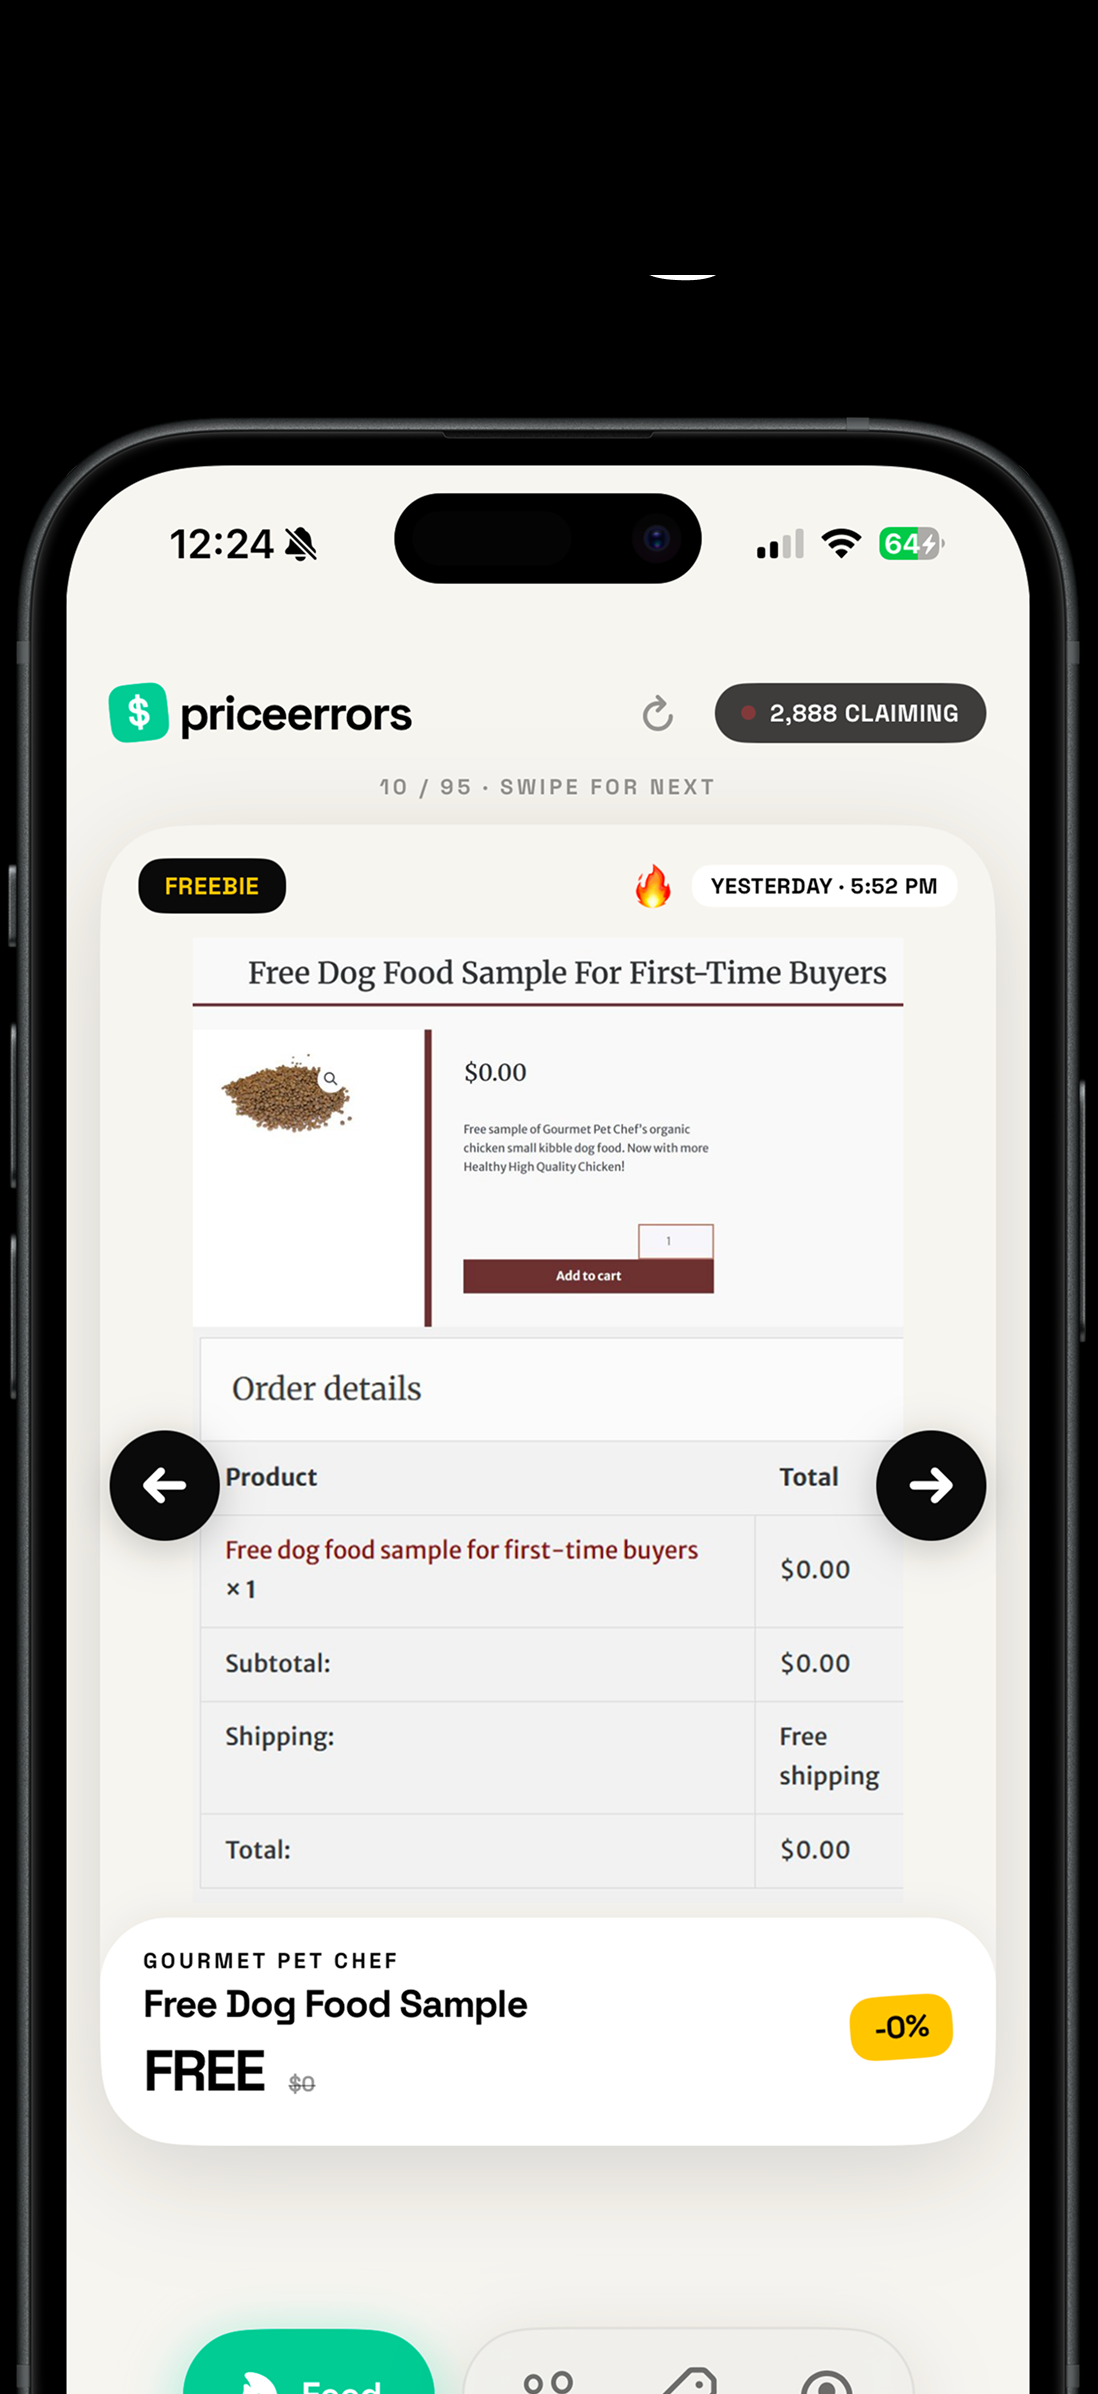
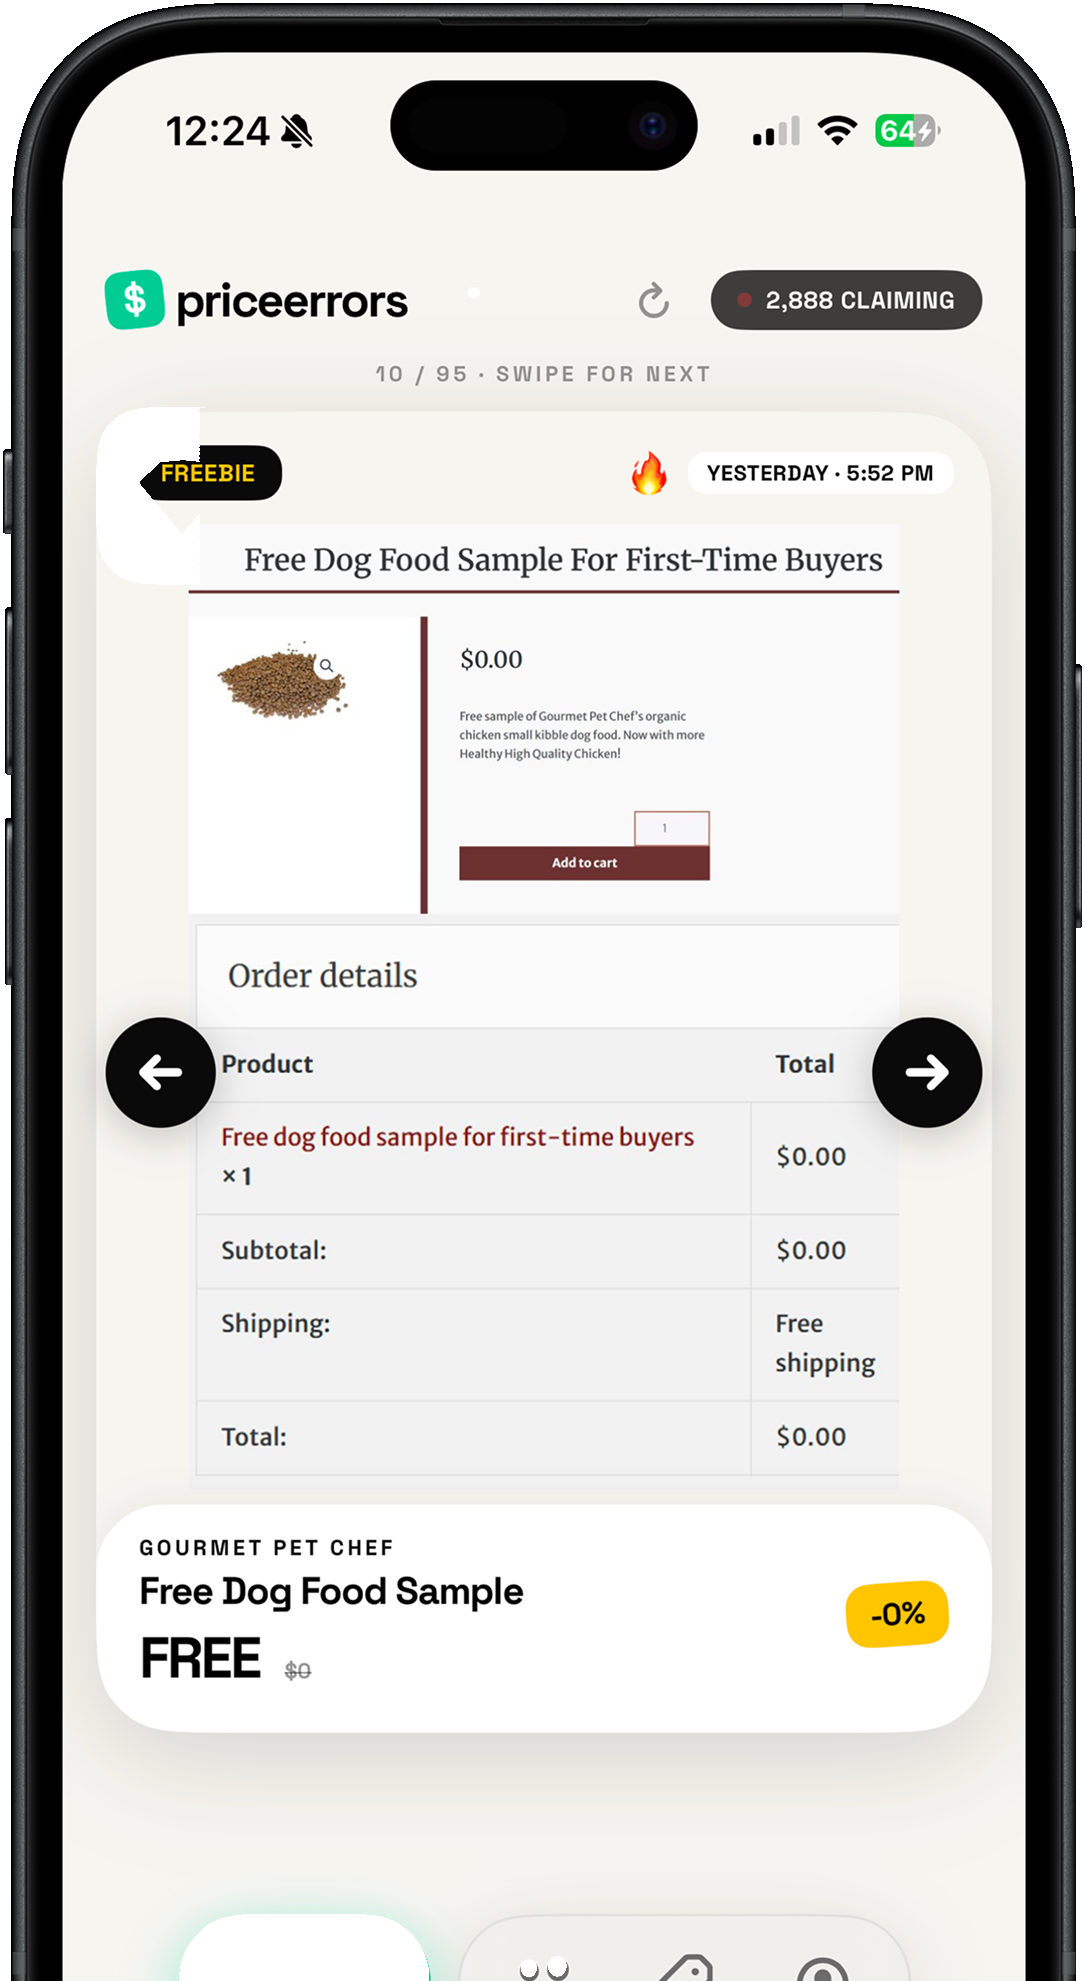
Fix hero phone: transparent background, full phone visible, correct sizing

diff --git a/index.html b/index.html
@@ -378,16 +378,16 @@
     .phone-stack {
       position: relative;
       width: 292px;
-      height: 637px;
+      height: 533px;
     }
 
     .phone-img {
       width: 292px;
-      height: 637px;
+      height: 533px;
       object-fit: contain;
       display: block;
       animation: float 6s ease-in-out infinite;
-      filter: drop-shadow(0 60px 100px rgba(0,0,0,0.38)) drop-shadow(0 30px 60px rgba(0,0,0,0.18));
+      filter: drop-shadow(0 40px 80px rgba(0,0,0,0.5)) drop-shadow(0 20px 40px rgba(0,0,0,0.3));
     }
 
     .phone {
@@ -2189,12 +2189,12 @@
 
       .phone-stack {
         width: 240px;
-        height: 523px;
+        height: 438px;
       }
 
       .phone-img {
         width: 240px;
-        height: 523px;
+        height: 438px;
       }
 
       .phone-screen {